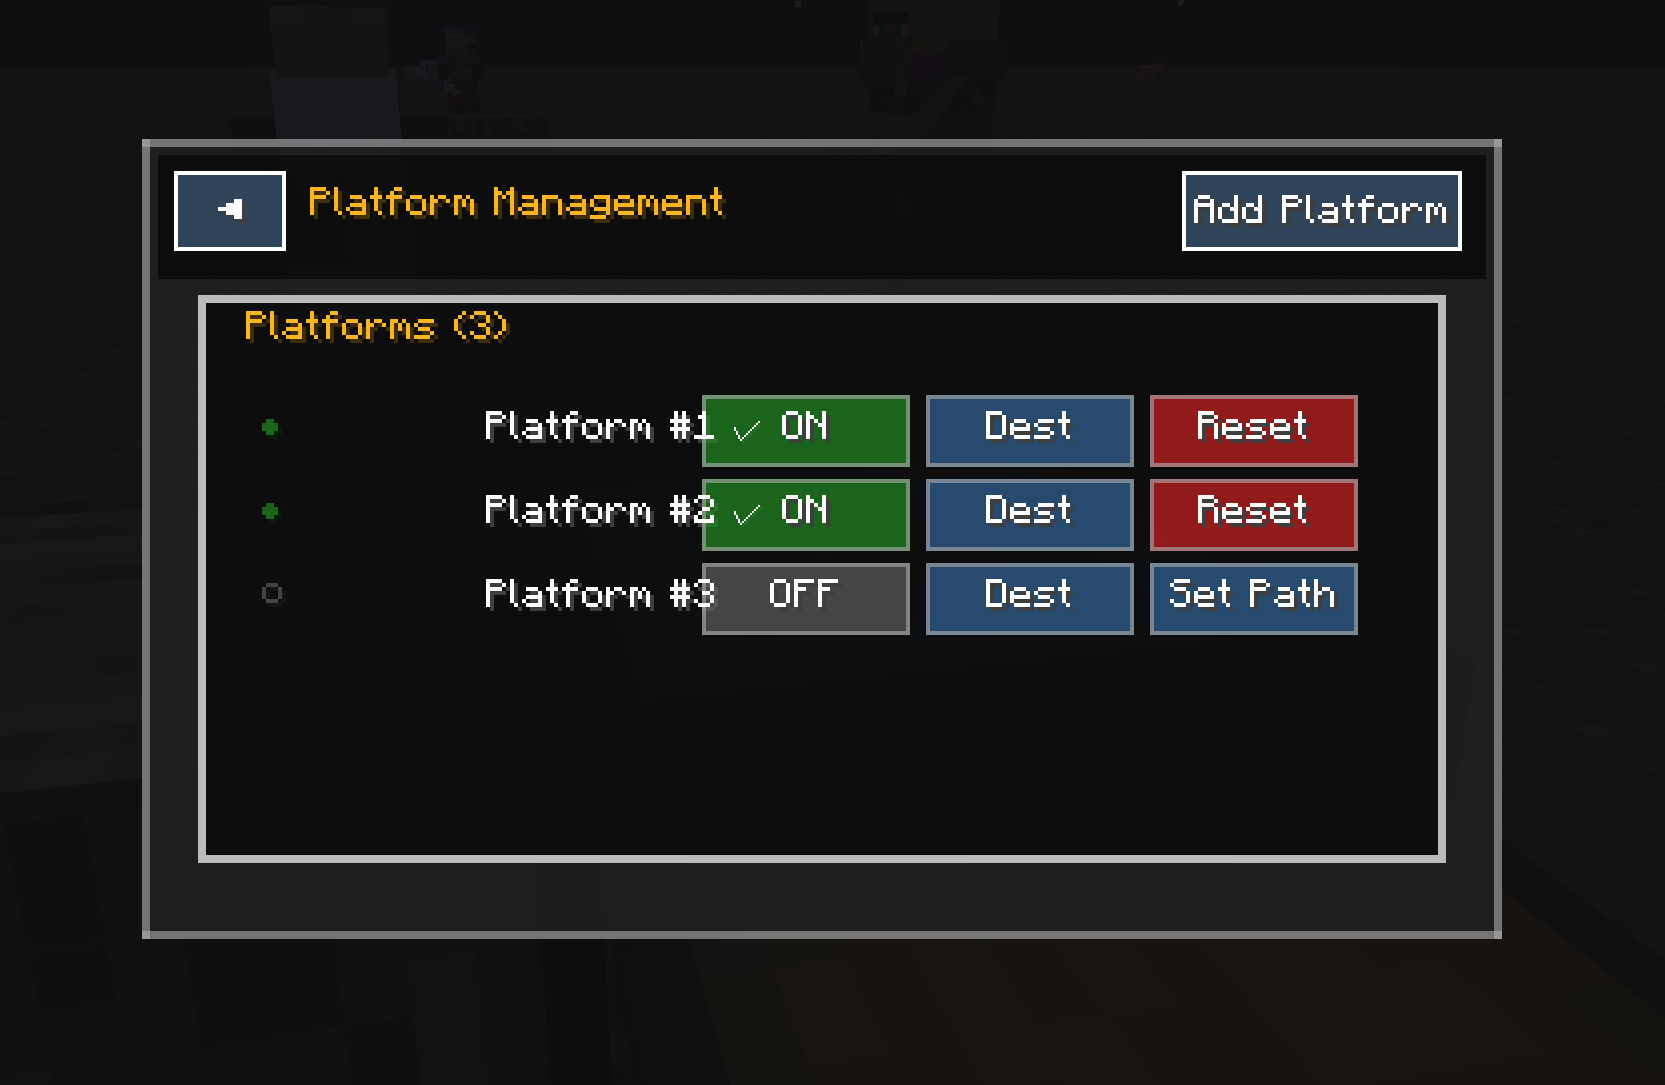
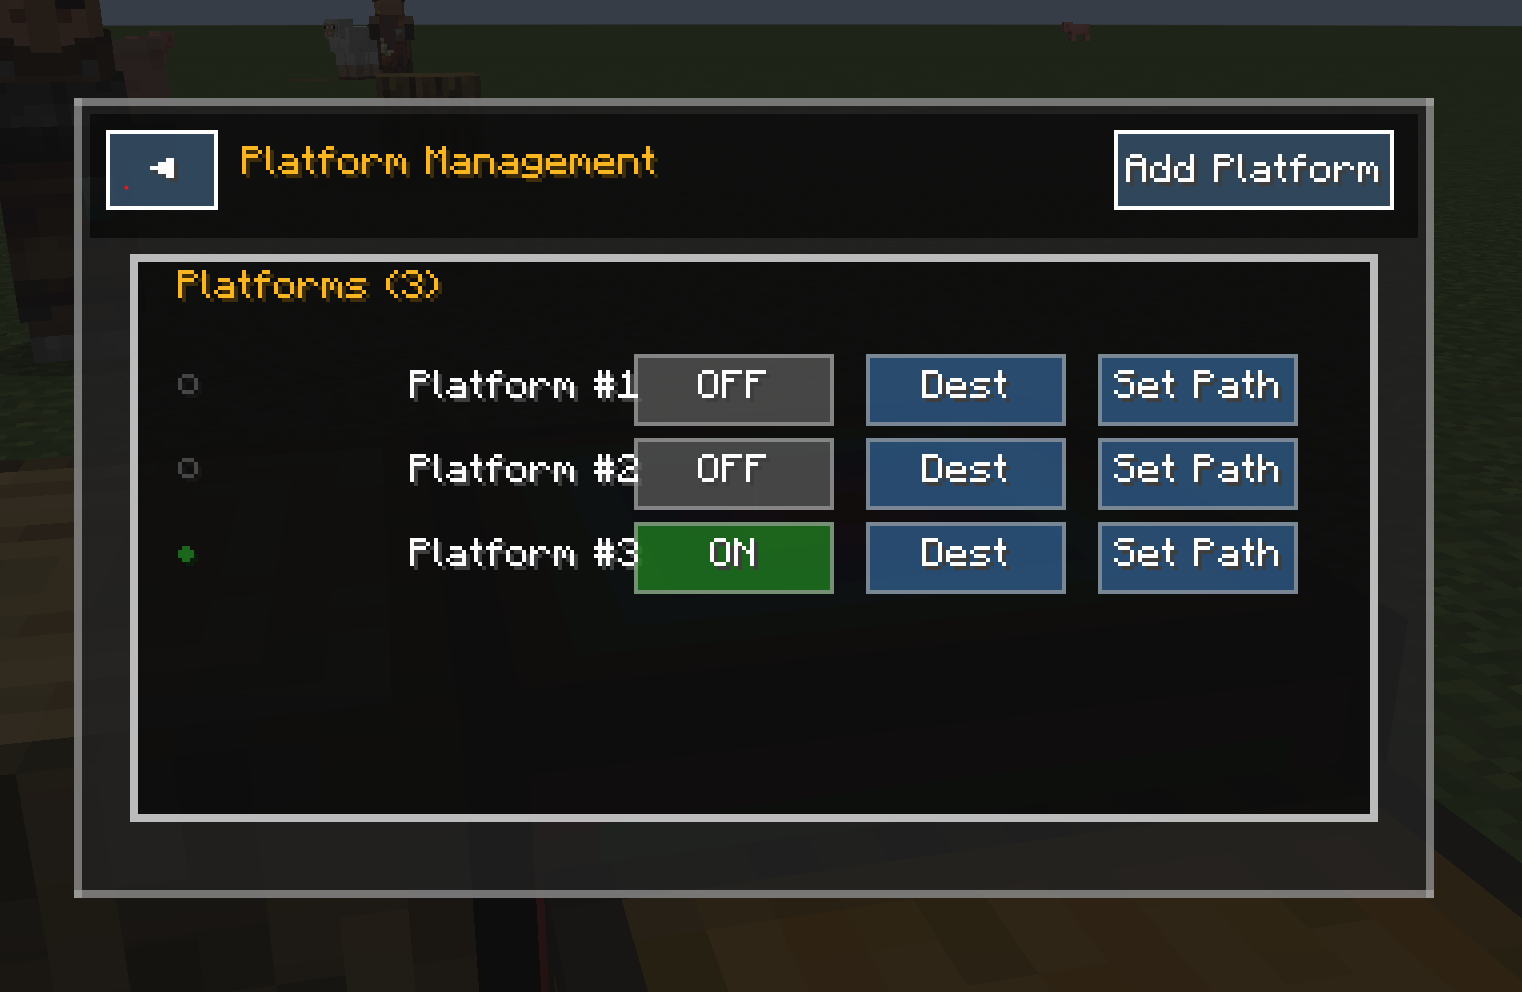
Platform UI part 3

diff --git a/src/main/java/com/yourdomain/businesscraft/ui/screens/platform/PlatformManagementScreenV2.java b/src/main/java/com/yourdomain/businesscraft/ui/screens/platform/PlatformManagementScreenV2.java
@@ -98,8 +98,8 @@ public class PlatformManagementScreenV2 extends Screen {
             PLATFORM_LIST_WIDTH - 8, PLATFORM_LIST_HEIGHT - 10,
             5) // 5 columns: Status, Name, Toggle, Destinations, Actions
             .withRowHeight(18)
-            .withSpacing(4, 3) // Reduced horizontal spacing from 8 to 4 to move names left
-            .withMargins(8, 4)
+            .withSpacing(8, 3) // Back to normal spacing
+            .withMargins(4, 4) // Reduced left margin from 8 to 4 to move content left
             .drawBackground(false)
             .drawBorder(false);
         
@@ -351,7 +351,12 @@ public class PlatformManagementScreenV2 extends Screen {
         
         // Update local state for immediate feedback
         platform.setEnabled(newState);
-        updatePlatformListGridData();
+        
+        // Force the grid to refresh immediately by clearing and repopulating
+        if (platformListGrid != null) {
+            platformListGrid.clearElements();
+            populateGridWithPlatforms();
+        }
     }
     
     private void openDestinations(Platform platform) {
@@ -393,7 +398,11 @@ public class PlatformManagementScreenV2 extends Screen {
                 Component.translatable("businesscraft.platform_path_reset"), false);
         }
         
-        updatePlatformListGridData();
+        // Force the grid to refresh immediately by clearing and repopulating
+        if (platformListGrid != null) {
+            platformListGrid.clearElements();
+            populateGridWithPlatforms();
+        }
     }
     
     private void addPlatform() {

diff --git a/tasks/todo.md b/tasks/todo.md
@@ -85,6 +85,20 @@
 
 **Status:** Both issues resolved and ready for testing in-game.
 
+### Issue: Toggle Button Not Updating Visually
+**Problem:** Clicking ON/OFF toggle buttons works server-side but doesn't update the UI immediately - requires reload to see change
+**Solution:** Added immediate grid refresh after toggle actions
+- ✅ togglePlatform() - Added platformListGrid.clearElements() + populateGridWithPlatforms() for immediate visual update
+- ✅ resetPlatformPath() - Added same immediate refresh pattern for consistent behavior
+- ✅ Build tested successfully
+
+### Issue: Platform Names Positioning (Attempted Fix)
+**Problem:** Platform names still appear too far right despite spacing adjustments  
+**Attempted Solution:** Reduced left margin from 8 to 4 pixels in withMargins(4, 4)
+**Status:** Needs further investigation - UIGridBuilder column layout may need different approach
+
+**Updated Status:** Toggle button issue fixed, positioning issue requires further analysis.
+
 ### 🎯 **PREVIOUS TASKS** (Platform UI Redesign - Completed)
 
 #### Platform UI Redesign  
